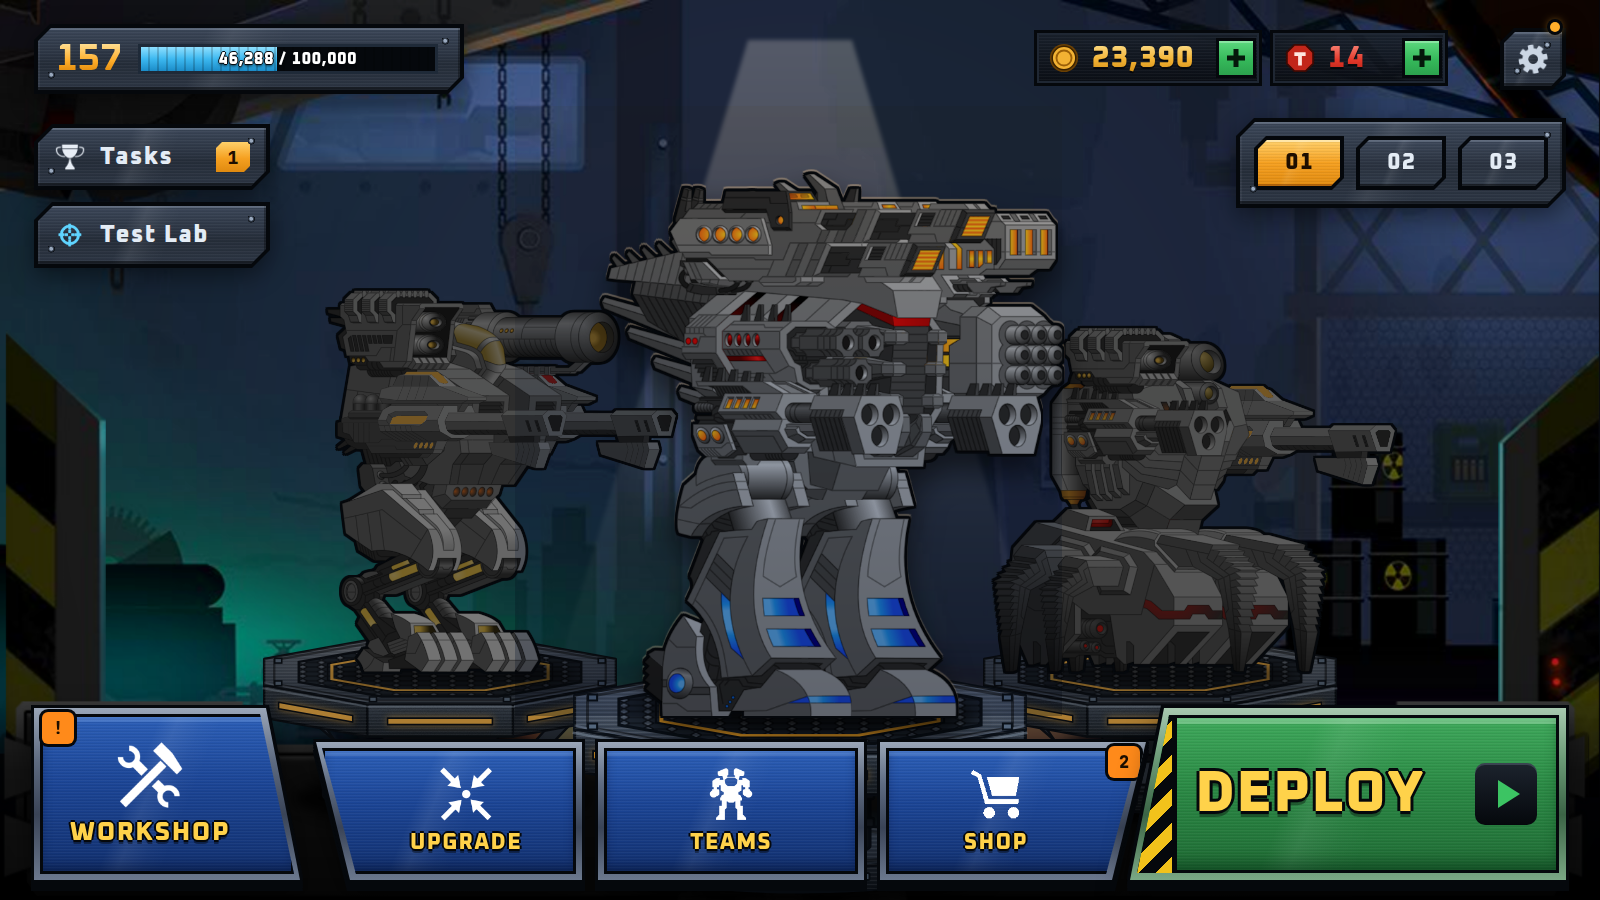
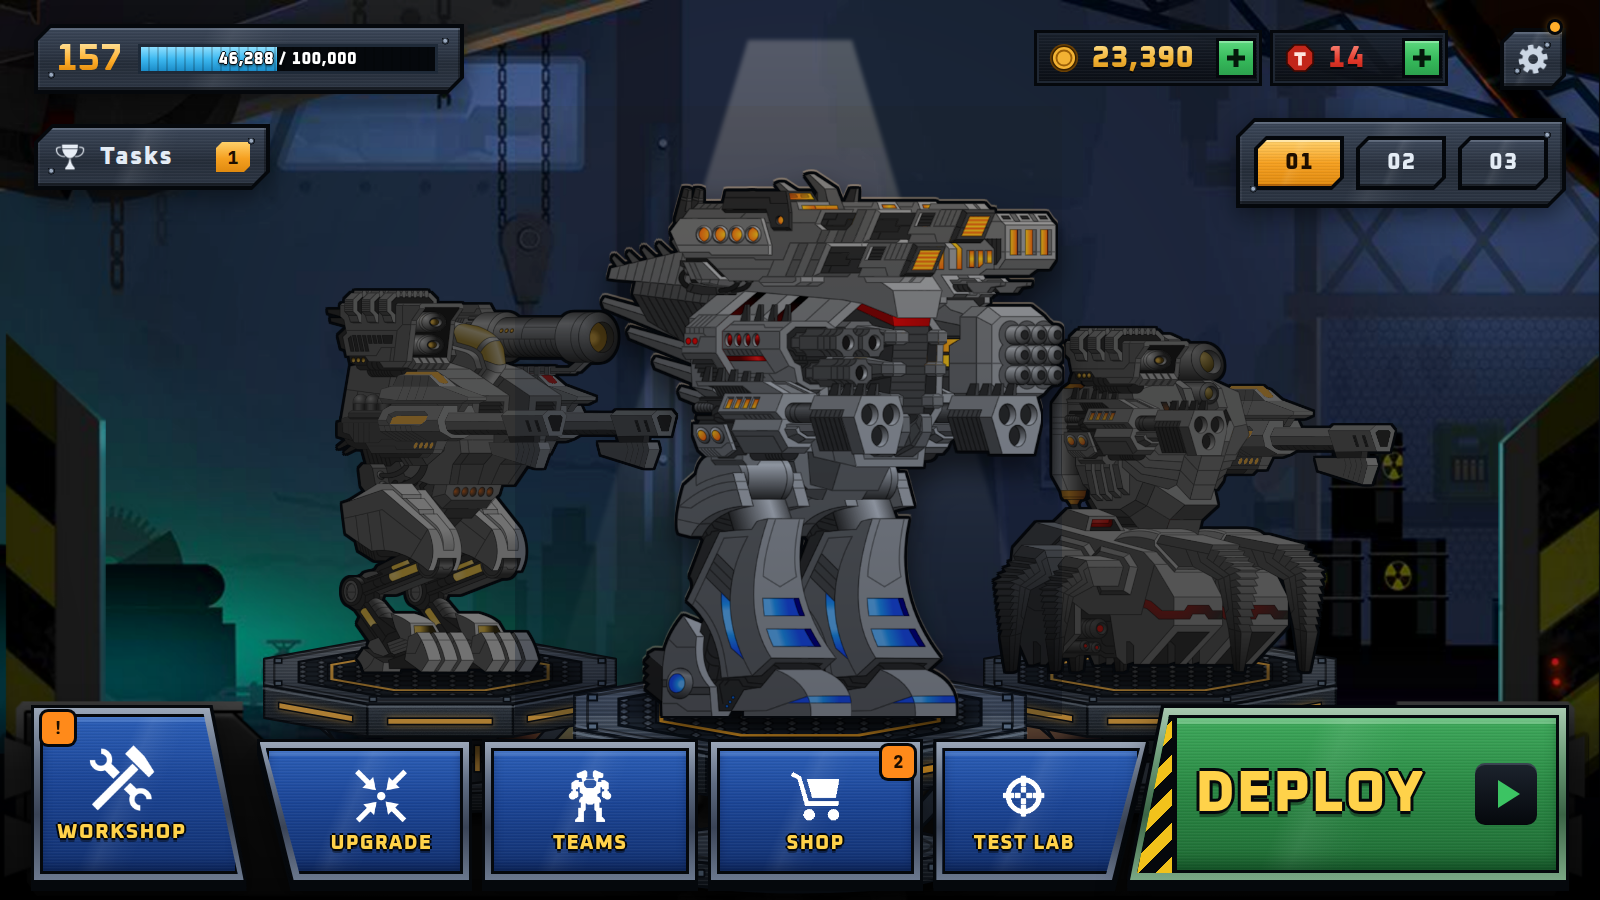
Move Test Lab into the bottom menu row, between Shop and Deploy
Test Lab takes the / seam next to Deploy; Shop is straight on both sides.

Claude-Session: https://claude.ai/code/session_016EMeU7WbdybdkHaQ4QiAx5

Changed region(s): [[0.0312, 0.7778, 0.6875, 0.9956], [0.0, 0.2178, 0.1875, 0.3111], [0.6875, 0.8089, 0.7188, 0.8711]]

diff --git a/ui/mocks/H-bay.html b/ui/mocks/H-bay.html
@@ -233,7 +233,7 @@ canvas{position:absolute;left:0;top:0;width:1600px;height:900px}
 .slot>.fc{height:100%;border-radius:9px;display:flex;flex-direction:column;align-items:center;justify-content:center;gap:6px;
   background:var(--sheen),var(--brush),linear-gradient(180deg,#2c5fb8,#1b4494 45%,#12306e);box-shadow:inset 0 0 0 3px #05080c,inset 0 5px 0 3px rgba(170,205,255,.22),inset 0 -8px 12px rgba(0,10,40,.45)}
 .slot .mask{width:58px!important;height:58px!important;background:#fff!important;filter:drop-shadow(0 3px 0 rgba(0,0,0,.6))}
-.slot span{font:800 22px var(--f-head)!important;letter-spacing:.06em!important;color:#ffd24a;text-shadow:0 2px 0 #05080c,2px 0 0 #05080c,-2px 0 0 #05080c,0 -2px 0 #05080c,0 4px 0 rgba(0,0,0,.4)}
+.slot span{font:800 20px var(--f-head)!important;white-space:nowrap;letter-spacing:.06em!important;color:#ffd24a;text-shadow:0 2px 0 #05080c,2px 0 0 #05080c,-2px 0 0 #05080c,0 -2px 0 #05080c,0 4px 0 rgba(0,0,0,.4)}
 .slot .pip{right:-8px!important;top:-12px!important;min-width:32px!important;height:32px!important;font-size:17px!important;border-radius:6px;box-shadow:0 0 0 3px #05080c!important;z-index:3}
 
 .dwrap{position:absolute;left:1130px;top:742px;width:436px;height:138px;z-index:8;perspective:700px}
@@ -251,8 +251,8 @@ canvas{position:absolute;left:0;top:0;width:1600px;height:900px}
 .slot>.fc{border-radius:0!important}
 .slot:nth-child(1),.slot:nth-child(1)>.fc{clip-path:polygon(0 0,calc(100% - var(--d)) 0,100% 100%,0 100%)}
 .slot:nth-child(2),.slot:nth-child(2)>.fc{clip-path:polygon(0 0,100% 0,100% 100%,var(--d) 100%)}
-.slot:nth-child(4),.slot:nth-child(4)>.fc{clip-path:polygon(0 0,100% 0,calc(100% - var(--d)) 100%,0 100%)}
-.slot:nth-child(1)>.fc{padding-right:var(--d)}.slot:nth-child(2)>.fc{padding-left:var(--d)}.slot:nth-child(4)>.fc{padding-right:var(--d)}
+.slot:nth-child(5),.slot:nth-child(5)>.fc{clip-path:polygon(0 0,100% 0,calc(100% - var(--d)) 100%,0 100%)}
+.slot:nth-child(1)>.fc{padding-right:var(--d)}.slot:nth-child(2)>.fc{padding-left:var(--d)}.slot:nth-child(5)>.fc{padding-right:var(--d)}
 .rack,.dwrap{filter:drop-shadow(3px 0 0 #05080c) drop-shadow(-3px 0 0 #05080c) drop-shadow(0 3px 0 #05080c) drop-shadow(0 -3px 0 #05080c) drop-shadow(0 8px 0 #05080c) drop-shadow(0 12px 14px rgba(0,0,0,.5))}
 .deploy{transform:none!important;border-radius:0!important;box-shadow:none!important;clip-path:polygon(34px 0,100% 0,100% 100%,0 100%)!important}
 .deploy .face{border-radius:0!important;clip-path:polygon(32px 0,100% 0,100% 100%,0 100%)!important}
@@ -263,7 +263,7 @@ canvas{position:absolute;left:0;top:0;width:1600px;height:900px}
 .slot{height:138px;flex:1 1 0}
 .slot:nth-child(1){height:172px}
 .slot:nth-child(1) .mask{width:70px!important;height:70px!important}
-.slot:nth-child(1) span{font-size:26px!important}
+.slot:nth-child(1) span{font-size:21px!important}
 .dwrap{top:708px!important;height:172px!important}
 .labBtn{top:202px!important;cursor:pointer}
 .labBtn .gi{background:#5fd4ff!important}
@@ -368,7 +368,6 @@ canvas{position:absolute;left:0;top:0;width:1600px;height:900px}
 
   <!-- tasks -->
   <div class="plate tasksBtn" id="tasksBtn"><div class="in"><div class="gi"></div><span class="t">Tasks</span><span class="cnt">1</span></div></div>
-  <div class="plate tasksBtn labBtn"><div class="in"><div class="gi" style="-webkit-mask-image:url(assets/icons/action_weapons.png);mask-image:url(assets/icons/action_weapons.png)"></div><span class="t">Test Lab</span></div></div>
   <div class="veil" id="veil"></div>
   <div class="plate drawer" id="drawer"><div class="in">
     <div class="dh"><div><div class="head">Tasks</div><div class="lbl">Daily · resets in 14:22:05</div></div><div class="x" id="closeTasks"></div></div>
@@ -391,6 +390,7 @@ canvas{position:absolute;left:0;top:0;width:1600px;height:900px}
     <div class="slot"><div class="fc"><i class="mask" style="--i:url(assets/icons/interface_fusion.png)"></i><span>Upgrade</span></div></div>
     <div class="slot"><div class="fc"><i class="mask" style="--i:url(assets/icons/interface_mech.png)"></i><span>Teams</span></div></div>
     <div class="slot"><div class="fc"><i class="mask" style="--i:url(assets/icons/interface_shop.png)"></i><span>Shop</span></div><b class="pip">2</b></div>
+    <div class="slot"><div class="fc"><i class="mask" style="--i:url(assets/icons/action_weapons.png)"></i><span>Test Lab</span></div></div>
   </div>
   <div class="dwrap"><div class="deploy"><div class="face"><div class="haz"></div><h3>DEPLOY</h3><div class="go2"></div></div></div></div>
 </div>

diff --git a/.claude/tracking/decisions.md b/.claude/tracking/decisions.md
@@ -38,4 +38,4 @@
   - **Type:** Oxanium (upright) for headings, Rajdhani for labels, JetBrains Mono for numbers. One amber accent; cyan for progress; green only for claim.
   - **Scene:** the bay is drawn in the same language (outlined chamfered wall plates, flat two-tone pipes, slatted shutter, hazard posts, truss gantry, outlined floor plates, octagonal faceted pedestal). Lighting stays but crisp.
   - **Mechs in scenes:** fat dark outline around the silhouette, a warm-top / cool-bottom grade and a contact shadow, so they sit in the room.
-- 2026-09-29: **Test Lab mode added (user).** A sandbox where the player builds a mech from all items in the game and tests it against any bot. Separate from progression: no rewards, nothing carried over. Details are open in roadmap Phase 3 item 9. Entry point on the main menu is a Test Lab button under Tasks.
+- 2026-09-29: **Test Lab mode added (user).** A sandbox where the player builds a mech from all items in the game and tests it against any bot. Separate from progression: no rewards, nothing carried over. Details are open in roadmap Phase 3 item 9. Entry point: a Test Lab button in the main menu's bottom row, between Shop and Deploy.
